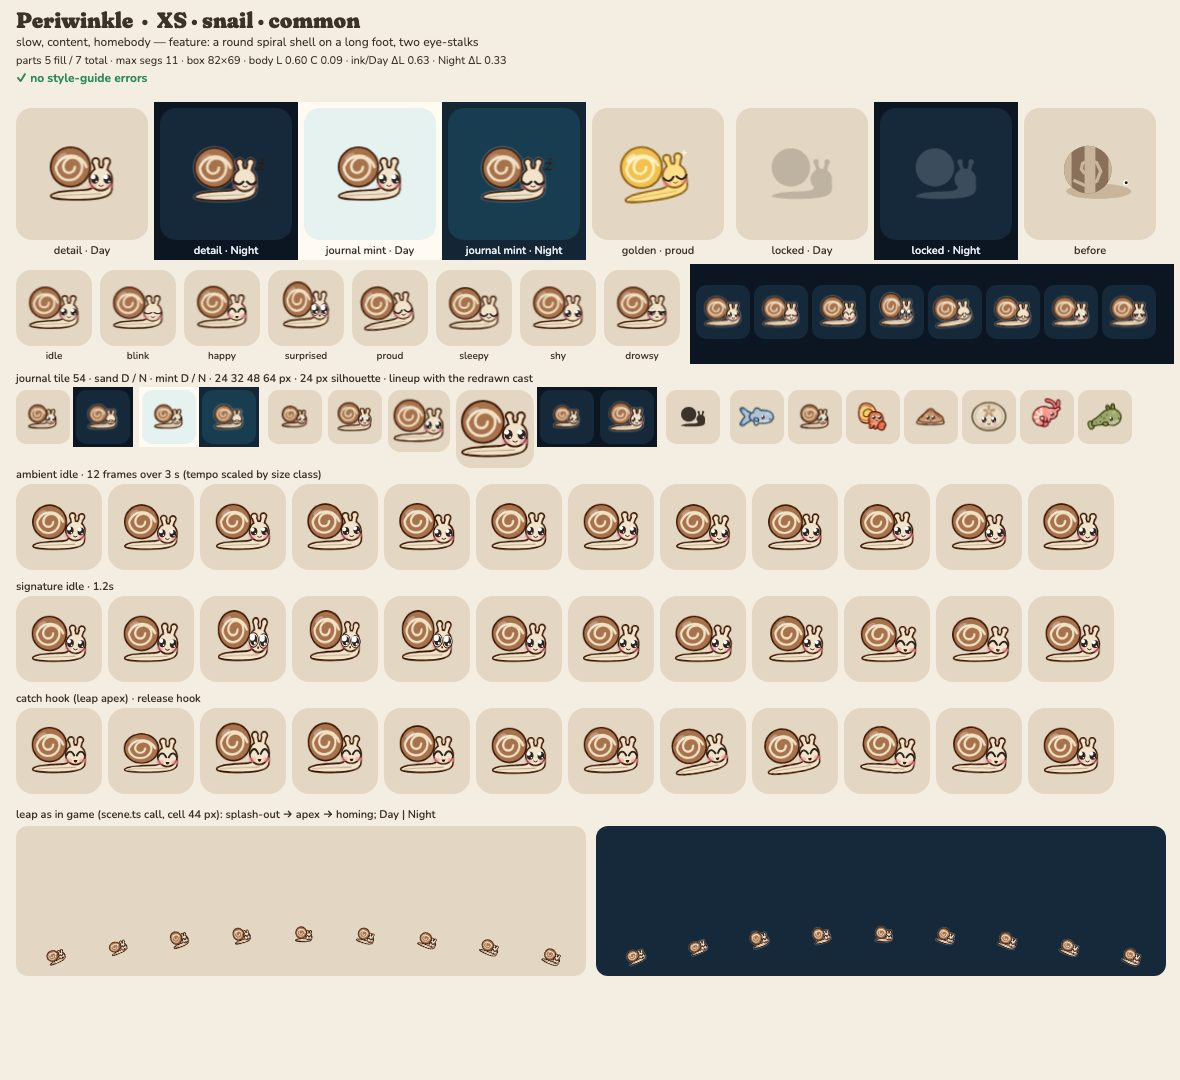
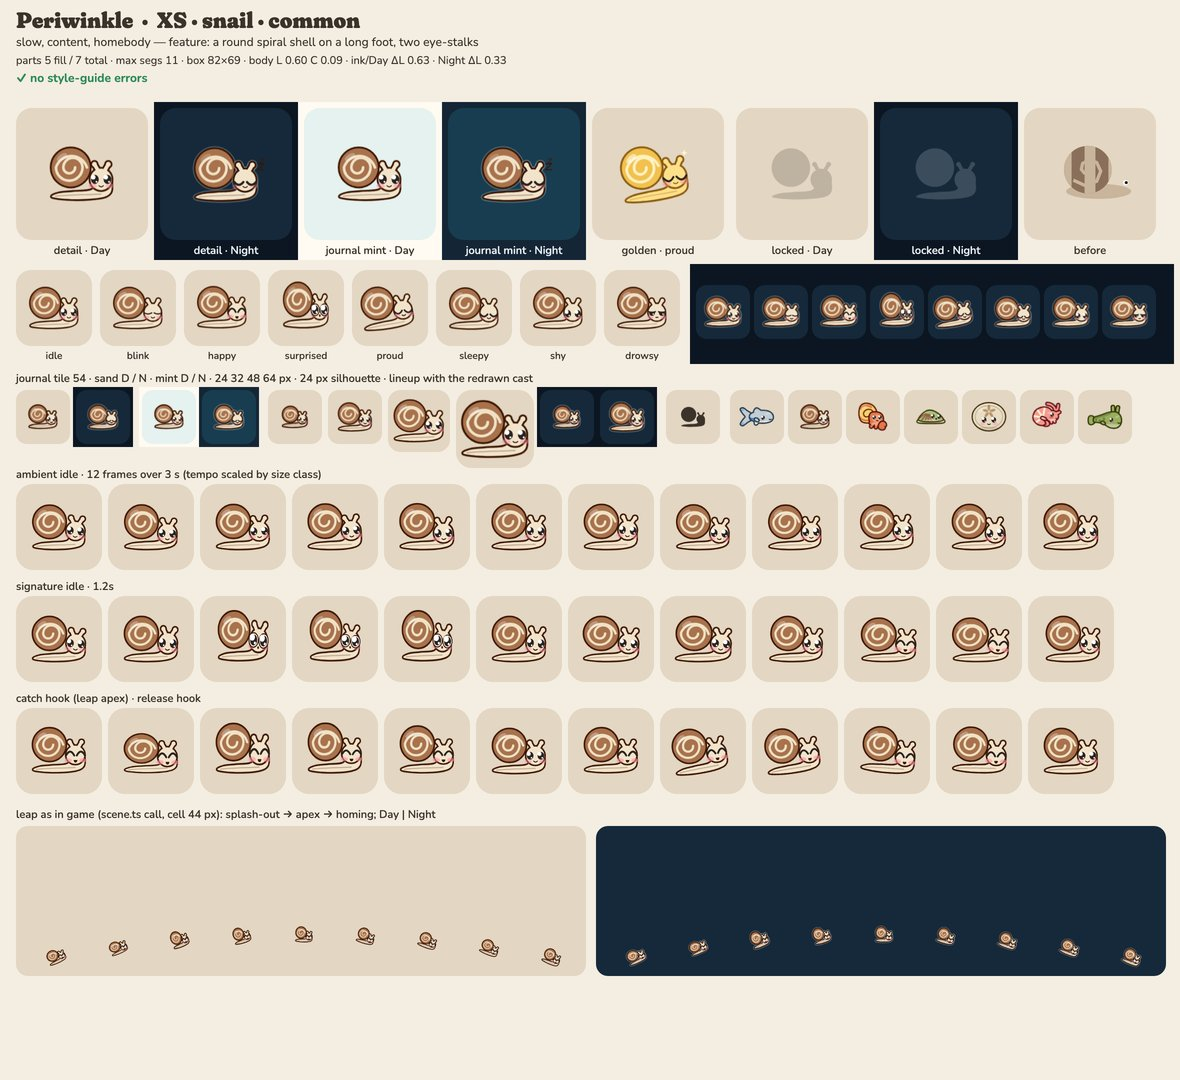
render: periwinkle art round 3 — eye-stalks splayed ±30°, 20% shorter, smaller knobs (ADR 0011)
CRITIQUE-2 (A, bunny-ear motif): the two stalks now splay ~30° from vertical and are 20% shorter,
knob tips 3.3 u, so the pair reads as snail stalks (a V), not rabbit ears. Self-grade A.
make check green.

diff --git a/src/render/art/species/periwinkle.ts b/src/render/art/species/periwinkle.ts
@@ -31,8 +31,9 @@ const foot = blob([
 ]);
 // a big round head in front of the shell carries the face; two short stalks with knob tips on top
 const head = circle(28, 4, 14.5);
-const stalks = join(capsule(24, -8, 2.6, 21, -18, 2.5), capsule(33, -8, 2.6, 36, -18, 2.5));
-const knobs = join(circle(21, -19.5, 3.8), circle(36, -19.5, 3.8));
+// CRITIQUE-2: splayed ±30° and 20 % shorter, so the pair reads as snail stalks, not bunny ears
+const stalks = join(capsule(24, -8, 2.6, 19.8, -15.2, 2.5), capsule(33, -8, 2.6, 37.2, -15.2, 2.5));
+const knobs = join(circle(19, -16.4, 3.3), circle(38, -16.4, 3.3));
 
 export default defineArt({
   id: 'periwinkle',
